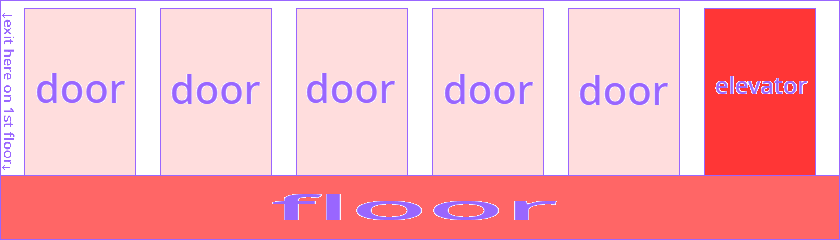
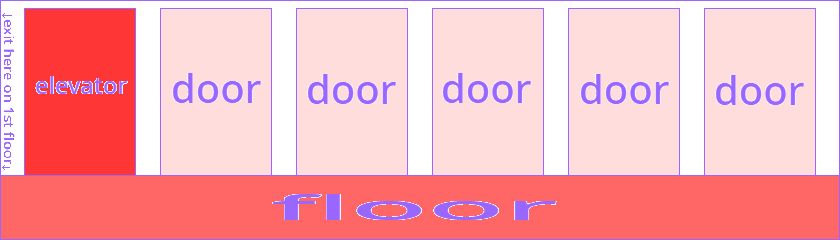
elevator moved to the left

diff --git a/constants.py b/constants.py
@@ -25,8 +25,8 @@ FOOT_MARGIN = 6
 SOFT_AVOIDANCE_DISTANCE = 24.0
 INDOOR_FLOOR_TOP = 176
 ROOMS_PER_FLOOR = 5
-HALLWAY_DOOR_ORIGINS = ((24, 8), (160, 8), (296, 8), (432, 8), (568, 8))
-HALLWAY_ELEVATOR_ORIGIN = (704, 8)
+HALLWAY_DOOR_ORIGINS = ((160, 8), (296, 8), (432, 8), (568, 8), (704, 8))
+HALLWAY_ELEVATOR_ORIGIN = (24, 8)
 APARTMENT_OVERLAY_SIZE = (112, 168)
 ROOM_DOOR_ORIGIN = (8, 8)
 HALLWAY_ARRIVAL_Y = 212
@@ -35,7 +35,7 @@ ROOM_BED_RECT = (8, 360, 112, 80)
 ROOM_SLEEP_POSITION = (64.0, 416.0)  # Bottom center of the lying sprite, over the mattress.
 SLEEP_FACING = 1  # Northeast before rotating the sprite counterclockwise.
 SLEEP_ROTATION = 90
-ELEVATOR_ARRIVAL = (760.0, 212.0)
+ELEVATOR_ARRIVAL = (HALLWAY_ELEVATOR_ORIGIN[0] + APARTMENT_OVERLAY_SIZE[0] / 2, HALLWAY_ARRIVAL_Y)
 HALLWAY_EXIT = (8.0, 212.0)
 GARDEN_BUILDING_POINT = (48.0, 112.0)
 GARDEN_BUILDING_ARRIVAL = (80.0, 112.0)
